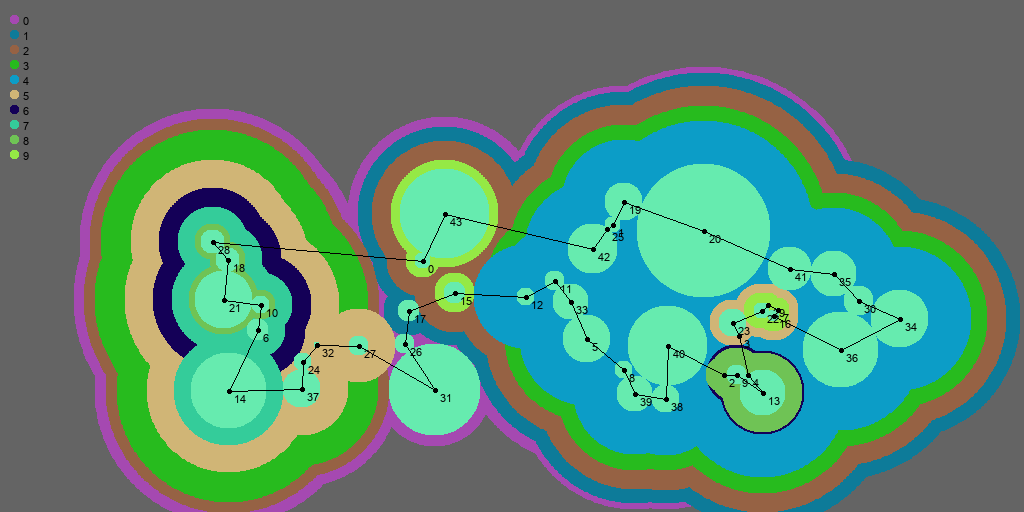
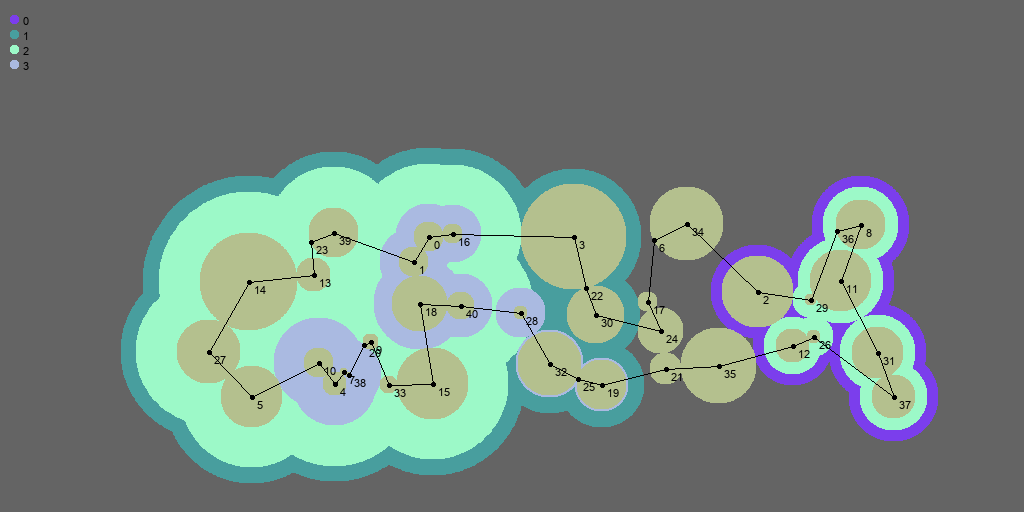
try

diff --git a/main_tsp.py b/main_tsp.py
@@ -1,0 +1,161 @@
+from PIL import Image, ImageDraw, ImageFont
+import pulp
+import math
+import numpy as np
+import random
+import primal
+import dual
+
+coordinates = []
+cities = {}
+
+def create_number_of_cities(is_random=None):
+    """Generates a random number of cities and its coordinates"""
+    if not is_random:
+        random.seed()
+        N = random.randint(40, 50)
+    else:
+        N = is_random
+    for city in range(N):
+        x, y = random.randint(200, 900), random.randint(200, 400)
+        coordinates.append((x, y))
+        cities[city] = coordinates[city]
+    return N
+
+# Creates a window of size w x h
+w, h = 1024, 512
+data = np.zeros((h, w, 3), dtype=np.uint8)
+for i in range(0, 512):
+    for j in range(0, 1024):
+        data[i, j] = [100, 100, 100]
+
+img = Image.fromarray(data, 'RGB')
+draw = ImageDraw.Draw(img)
+
+N = create_number_of_cities()
+font = ImageFont.truetype("fonts/Arial.ttf", 11)
+finished = False
+iteration_count = 0
+
+# Creates the primal and dual objects
+p = primal.Primal([], N, [], [])
+d = dual.Dual([], [], [], N)
+
+while not finished:
+    print("_______________________________________________")
+    print(iteration_count)
+    primal_cur = pulp.LpProblem("primal", pulp.LpMinimize)
+    p.primal_.append(primal_cur)
+
+    # Objective function:
+    p.create_X(iteration_count)
+    p.primal_[iteration_count] += pulp.lpSum(
+        p.X_[iteration_count][str(i) + "_" + str(j)] * d.calc_distance(cities[i], cities[j]) for i in range(N) for j
+        in range(i + 1, N)), "Z"
+
+    # Constraints
+    p.add_constraints(iteration_count)
+
+    # Solves the LP
+    p.primal_[iteration_count].solve()
+
+    # Sets the variables in X_[iteration_count], either 1 or 0; tells you whether or not you take the path (i,j)
+    for variable in p.primal_[iteration_count].variables():
+        p.X_[iteration_count][str(variable.name)] = int(variable.varValue)
+
+    S_x = p.create_S_x(iteration_count)
+    p.add_to_S_s(S_x)
+    print("new S_x: ", S_x)
+    print("S_s: ", p.S_s)
+
+    # Dual LP, this only runs if there is at least one subtour
+    if len(S_x) > 1:
+        d.radii_.append({})
+        for city_i in range(N):
+            d.radii_[iteration_count]["r_" + str(city_i)] = pulp.LpVariable("r_" + str(city_i), lowBound=0, cat='Continuous')
+
+        # Creates Ys/moat for each subtour
+        d.create_Ys(p.S_s, iteration_count)
+
+        dual_cur = pulp.LpProblem("the dual", pulp.LpMaximize)
+        d.dual_.append(dual_cur)
+
+        # Objective function:
+        temp = pulp.LpAffineExpression()
+        for city_i in range(N):
+            temp += pulp.lpSum(2 * d.radii_[iteration_count]["r_" + str(city_i)])
+        for iteration_idx, S_x in enumerate(p.S_s):
+            for subtour in range(len(S_x)):
+                temp += pulp.lpSum(2 * d.Ys_[iteration_count]["Ys_tour" + str(iteration_idx) + "_" + str(subtour)])
+        d.dual_[iteration_count] += temp, "Z"
+
+        d.add_constraints_Y(p.S_s, iteration_count, cities)
+        d.dual_[iteration_count].solve()
+
+    if len(S_x) == 1:
+        # This stores the moats from the final iteration and then adds up the moat sizes so it can be used to
+        # draw the final image
+        Ys = [[] for i in range(iteration_count)]
+        Radii = {}
+
+        for variable in d.dual_[-1].variables():
+            if variable.name[0] == "Y":
+                throwaway, tour, idx = variable.name.split("_")
+                tour = int(tour[4:])
+                Ys[tour].append((idx, variable.varValue))
+            else:
+                Radii[variable.name] = variable.varValue
+
+        fin_moats_for_each_city = []
+        for iteration in range(iteration_count):
+            fin_moats_for_each_city.append({})
+            for subtour in range(len(p.S_s[iteration])):
+                for city in p.S_s[iteration][subtour]:
+                    moat = Ys[iteration][subtour][-1]
+                    if iteration == 0:
+                        fin_moats_for_each_city[iteration]["r_" + str(city)] = moat + Radii["r_" + str(city)]
+                    else:
+                        fin_moats_for_each_city[iteration]["r_" + str(city)] = fin_moats_for_each_city[iteration - 1][
+                                                                               "r_" + str(city)] + moat
+        fin_moats_for_each_city = fin_moats_for_each_city[::-1]
+
+        # This draws the legend identifying which iteration a moat was created by its color
+        # and also draws the moats
+        legend_y_coord = 0
+        for city in range(iteration_count):
+            moat_color = (random.randint(0, 255), random.randint(0, 255), random.randint(0, 255))
+            legend_y_coord += 15
+            draw.ellipse([10, legend_y_coord, 18, legend_y_coord + 8], fill=moat_color)
+
+            draw.text((23, legend_y_coord), str(city), (0, 0, 0), font=font)
+            for city_i in range(N):
+                x, y = cities[city_i]
+                moat = fin_moats_for_each_city[city]["r_" + str(city_i)]
+                draw.ellipse([x - moat, y - moat, x + moat, y + moat], fill=moat_color)
+
+        control_zone_color = (random.randint(0, 200), random.randint(0, 255), random.randint(50, 255))
+        for city in range(N):
+            x, y = cities[city]
+            radius = Radii["r_" + str(city)]
+            draw.ellipse([x - radius, y - radius, x + radius, y + radius], fill=control_zone_color)
+
+        finished = True
+
+        # Draws the connecting tour for the primal ILP
+        connecting_tour = {}
+        for variable in p.primal_[-1].variables():
+            connecting_tour[str(variable.name)] = int(variable.varValue)
+        for path in connecting_tour:
+            if connecting_tour[path]:
+                xs = path.split("_")
+                x_1, y_1 = cities[int(xs[0])]
+                x_2, y_2 = cities[int(xs[1])]
+                draw.line([x_1, y_1, x_2, y_2], fill=(0, 0, 0), width=1)
+        for idx, city in enumerate(cities):
+            x, y = cities[city]
+            radius = 2
+            draw.ellipse([x - radius, y - radius, x + radius, y + radius], fill=(0, 0, 0))
+            draw.text((x + 5, y + 2), str(idx), (0, 0, 0), font=font)
+    iteration_count += 1
+img.save('my.png')
+img.show()

diff --git a/primal.py b/primal.py
@@ -1,28 +1,32 @@
+"""This class contains the functions needed for the primal LP. It uses an open-source LP solver (Pulp) to carry out the
+calculations.
+"""
+
 import pulp
 
-class primal:
+class Primal:
     def __init__(self, X_, N, S_s, primal_):
+        """"""
         self.X_ = X_
         self.N = N
         self.S_s = S_s
         self.primal_ = primal_
 
-    def create_X(self, count):
+    def create_X(self, iteration):
+        """This function creates a list of variables that tells you if a path from a city to another is taken."""
         self.X_.append({})
-        for i in range(self.N):
-            for j in range(i + 1, self.N):
-                self.X_[count][str(i) + "_" + str(j)] = pulp.LpVariable(str(i) + "_" + str(j), lowBound=0, cat='Binary')
+        for city_i in range(self.N):
+            for city_j in range(city_i + 1, self.N):
+                self.X_[iteration][str(city_i) + "_" + str(city_j)] = pulp.LpVariable(str(city_i) + "_" + str(city_j),
+                                                                                      lowBound=0, cat='Binary')
         return self.X_
 
-    ################################################################################
-    #         DFS to find subtours S(i...N-1)                                      #
-    ################################################################################
-
-    def create_S_x(self, count):
+    def create_S_x(self, iteration):
+        """In order to create S_x, we need to use a DFS to find connecting cities. This will be the relevant subtours."""
         graph = {}
         S_x = []
-        for edge in self.X_[count]:
-            if self.X_[count][edge]:
+        for edge in self.X_[iteration]:
+            if self.X_[iteration][edge]:
                 xs = edge.split("_")
                 start = int(xs[0])
                 end = int(xs[1])
@@ -47,36 +51,38 @@ class primal:
         return S_x
 
     def add_to_S_s(self, S_x):
+        """S_x is added to the S_s"""
         self.S_s.append(S_x)
 
-    ################################################################################
-    #         for S_i in S_x                                                       #
-    #           add constraint: Σ (x_ij) >= 2                                      #
-    #                              i ∈ S_i                                         #
-    #                              j ∉ S_i                                         #
-    ################################################################################
-
-    def add_constraints(self, count, S_s):
-        for i in range(self.N):
+    def add_constraints(self, iteration):
+        """Adds constraints for the current iteration while keeping the constraints from old tours as well:
+           First, a city's path to all other cities = 2, because we enter and exit that city once.
+           For the subtours, we add the constraints:
+                for S_x in S_x
+                    add constraint: Σ (x_ij) >= 2
+                                    i ∈ S_i
+                                    j ∉ S_i
+        """
+        for city_i in range(self.N):
             temp = pulp.LpAffineExpression()
-            for j in range(self.N):
-                if i != j:
-                    if i < j:
-                        temp += pulp.lpSum(self.X_[count][str(i) + "_" + str(j)])
+            for city_j in range(self.N):
+                if city_i != city_j:
+                    if city_i < city_j:
+                        temp += pulp.lpSum(self.X_[iteration][str(city_i) + "_" + str(city_j)])
                     else:
-                        temp += pulp.lpSum(self.X_[count][str(j) + "_" + str(i)])
-            self.primal_[count] += temp == 2
+                        temp += pulp.lpSum(self.X_[iteration][str(city_j) + "_" + str(city_i)])
+            self.primal_[iteration] += temp == 2
 
         for S_x in self.S_s:
             for idx, S_i in enumerate(S_x):
                 temp = pulp.LpAffineExpression()
-                for i in S_i:
+                for city_i in S_i:
                     for S_not_including_i in S_x:
                         if S_x[idx] != S_not_including_i:
-                            for j in S_not_including_i:
-                                if i != j:
-                                    if i < j:
-                                        temp += pulp.lpSum(self.X_[count][str(i) + "_" + str(j)])
+                            for city_j in S_not_including_i:
+                                if city_i != city_j:
+                                    if city_i < city_j:
+                                        temp += pulp.lpSum(self.X_[iteration][str(city_i) + "_" + str(city_j)])
                                     else:
-                                        temp += pulp.lpSum(self.X_[count][str(j) + "_" + str(i)])
-                self.primal_[count] += temp >= 2
+                                        temp += pulp.lpSum(self.X_[iteration][str(city_j) + "_" + str(city_i)])
+                self.primal_[iteration] += temp >= 2

diff --git a/dual.py b/dual.py
@@ -1,43 +1,59 @@
+"""This class contains the functions needed for the dual LP. It creates the moats needed for the current tour
+and adds the necessary constraints. The Dual uses the subtours calculated from the primal.
+"""
+
 import pulp
 import math
 
-class dual:
+class Dual:
     def __init__(self, Ys_, dual_, radii_, N):
+        """"""
         self.Ys_ = Ys_
         self.dual_ = dual_
         self.radii_ = radii_
         self.N = N
 
-    # Ex: Ys_Tour0_0: at iteration 0, Ys for subtour 0
     def create_Ys(self, S_s, count):
+        """This function creates a new Ys/moat for each subtour in the current tour and carries over moats from
+           previous tours. For example: Ys_tour0_0 means at iteration 0, there is a moat for subtour 0."""
         self.Ys_.append({})
-        for idx, S_x in enumerate(S_s):
-            for i in range(len(S_x)):
-                self.Ys_[count]["Ys_tour" + str(idx) + "_" + str(i)] =\
-                    pulp.LpVariable("Ys_tour" + str(idx) + "_" + str(i), lowBound=0, cat='Continuous')
+        for idx_iteration, S_x in enumerate(S_s):
+            for moat_i in range(len(S_x)):
+                self.Ys_[count]["Ys_tour" + str(idx_iteration) + "_" + str(moat_i)] =\
+                    pulp.LpVariable("Ys_tour" + str(idx_iteration) + "_" + str(moat_i), lowBound=0, cat='Continuous')
 
-    def dist(self, p1, p2):  # Takes tuple
-        # Calculates distance between two cities
-        distance = math.sqrt(((p1[0] - p2[0]) ** 2) + ((p1[1] - p2[1]) ** 2))
+    def calc_distance(self, city1, city2):
+        """Calculates the distance from one city to another."""
+        distance = math.sqrt(((city1[0] - city2[0]) ** 2) + ((city1[1] - city2[1]) ** 2))
         return distance
 
-    def add_constraints_Y(self, S_s, count, G):
-        for i in range(self.N):
-            for j in range(i + 1,self.N):
-                self.dual_[count] += self.radii_[count]["r_" + str(i)] + self.radii_[count]["r_" + str(j)] \
-                                     <= self.dist(G[i], G[j])
+    def add_constraints_Y(self, S_s, iteration, G):
+        """Adds constraints for the current iteration while keeping the constraints from old tours as well:
+           The distance from one city i to another city j <= distance(i, j)
+           In addition:
+                for S_x in S_s
+                    add constraint: r_i + r_j + Σ(Y_s) <= D(i,j)
+                                    i ∈ S_i
+                                    j ∉ S_i
+        """
+        for city_i in range(self.N):
+            for city_j in range(city_i + 1, self.N):
+                self.dual_[iteration] += self.radii_[iteration]["r_" + str(city_i)] \
+                                         + self.radii_[iteration]["r_" + str(city_j)] \
+                                         <= self.calc_distance(G[city_i], G[city_j])
+                
         for idx, S_x in enumerate(S_s):
-            for idx_start, subgroup in enumerate(S_x):
-                for idx_i, city_start in enumerate(subgroup):
-                    for idx_end in range(idx_start + 1, len(S_x)):
-                        for city_end in S_x[idx_end]:
+            for idx_subtour, subtour in enumerate(S_x):
+                for idx_city_i, city_i in enumerate(subtour):
+                    for idx_city_j in range(idx_subtour + 1, len(S_x)):
+                        for city_j in S_x[idx_city_j]:
                             temp = 0
-                            for idx1, S_x_ in enumerate(S_s):
-                                for idx2, S_i in enumerate(S_x_):
-                                    if city_start in S_i and city_end in S_i:
+                            for idx_iteration_2, S_x_ in enumerate(S_s):
+                                for idx_subtour_, subtour_ in enumerate(S_x_):
+                                    if city_i in subtour_ and city_j in subtour_:
                                         break
-                                    elif city_start in S_i or city_end in S_i:
-                                        temp += self.Ys_[count]["Ys_tour" + str(idx1) + "_" + str(idx2)]
-                            self.dual_[count] += (self.radii_[count]["r_" + str(city_start)]
-                                                  + self.radii_[count]["r_" + str(city_end)]
-                                                  + temp <= self.dist(G[city_start], G[city_end]))
+                                    elif city_i in subtour_ or city_j in subtour_:
+                                        temp += self.Ys_[iteration]["Ys_tour" + str(idx_iteration_2) + "_" + str(idx_subtour_)]
+                            self.dual_[iteration] += (self.radii_[iteration]["r_" + str(city_i)]
+                                                  + self.radii_[iteration]["r_" + str(city_j)]
+                                                  + temp <= self.calc_distance(G[city_i], G[city_j]))

diff --git a/test_/test_main.py b/test_/test_main.py
@@ -1,0 +1,36 @@
+import sys
+sys.path.append('..')
+import main_tsp
+import pytest
+
+def test_city_has_two_paths():
+    """Each city should have only two paths: one to enter and the other to exit."""
+    cities = {}
+    compare = main_tsp.p.X_[-1]
+    ans = True
+    for city in compare:
+        start, end = city.split("_")
+        if compare[city]:
+            cities[start] = cities.get(start, 0) + 1
+            cities[end] = cities.get(end, 0) + 1
+    for city in cities:
+        if cities[city] != 2:
+            ans = False
+    assert ans == True
+
+def test_dual_less_than_primal():
+    """We know that the dual LP is accurate if the size of all cities is less than or equal to
+       the length of the tour."""
+    dual = main_tsp.pulp.value(main_tsp.d.dual_[-1].objective)
+    primal = main_tsp.pulp.value(main_tsp.p.primal_[-1].objective)
+    assert dual <= primal
+
+def test_num_of_cities_matches_random_generator():
+    """This test makes sure that the number of cities in the list matches the number generated."""
+    assert main_tsp.N == len(main_tsp.cities)
+
+@pytest.mark.parametrize("input1, input2, output1",[((0, 0), (0, 0), 0), ((50, 100), (50, 50), 50), ((10, 50), (0, 50), 10)])
+def test_calc_distance(input1, input2, output1):
+    """This checks that the method to calculate distance given two points is correct."""
+    assert main_tsp.d.calc_distance(input1, input2) == output1
+
